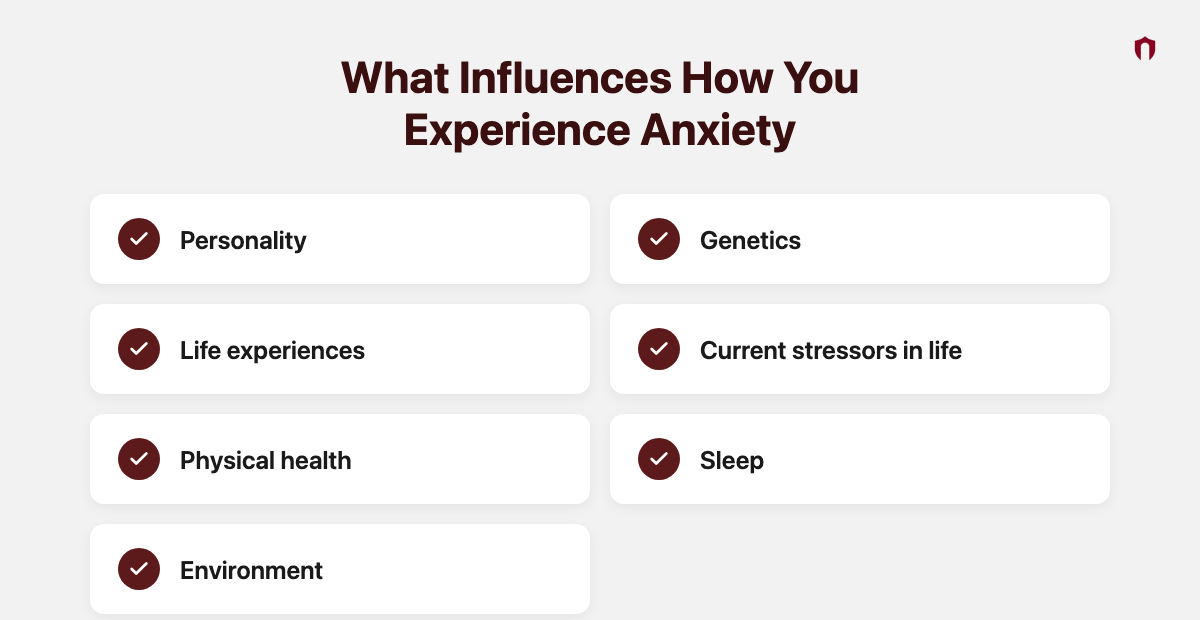
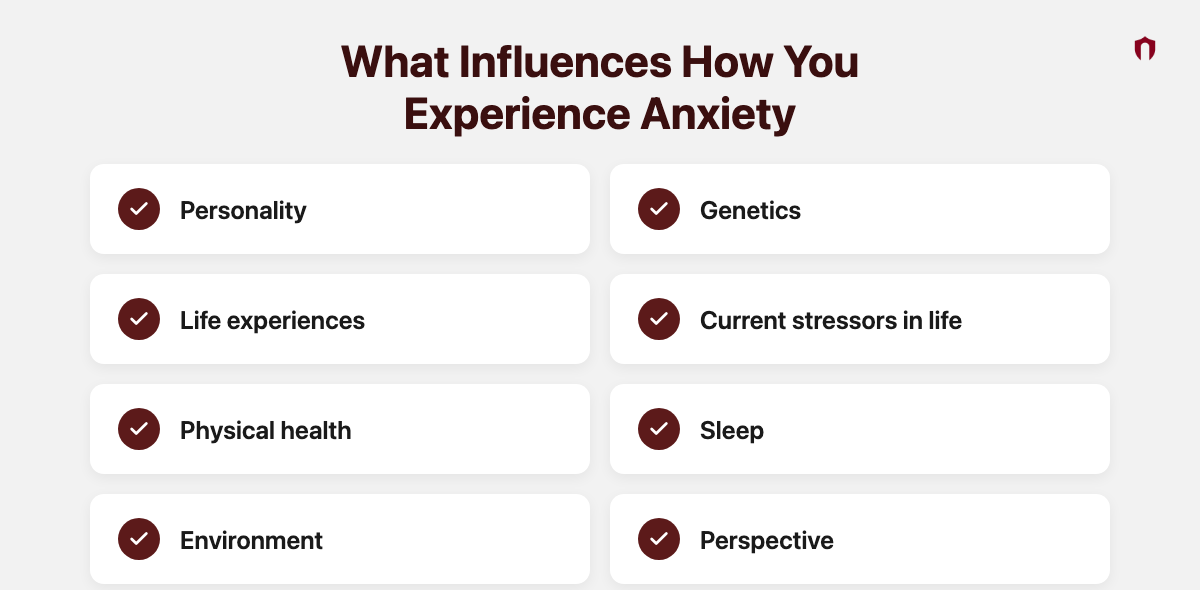
Tighten graphic spacing and add Perspective to anxiety factors graphic

diff --git a/topics/anxiety.html b/topics/anxiety.html
@@ -112,7 +112,7 @@
         <p>Everyone experiences anxiety differently. For some, anxiety is an occasional feeling before stressful events. For others, it becomes a near-constant companion. Think of anxiety like a volume dial. Low levels may barely be noticeable. Moderate levels can improve focus and motivation. Very high levels may become overwhelming and interfere with thinking, decision-making, sleep, relationships, and work.</p>
         <p>The important point is that anxiety is not simply present or absent, it exists along a spectrum.</p>
         <p>Factors that influence how someone may experience and respond to anxiety include:</p>
-        <img src="../images/anxiety-factors.png" alt="What Influences How You Experience Anxiety: personality, genetics, life experiences, current stressors in life, physical health, sleep, environment" style="width:100%; max-width:720px; display:block; margin:0.6rem auto; border-radius: var(--radius); box-shadow: var(--shadow);">
+        <img src="../images/anxiety-factors.png" alt="What Influences How You Experience Anxiety: personality, genetics, life experiences, current stressors in life, physical health, sleep, environment, perspective" style="width:100%; max-width:720px; display:block; margin:0.6rem auto; border-radius: var(--radius); box-shadow: var(--shadow);">
         <p>Understanding this helps remove unnecessary self-judgment and could help identify what to work on to reduce symptoms.</p>
 
         <p class="module-subtitle"><strong>Anxiety Involves Your Whole Body</strong></p>
